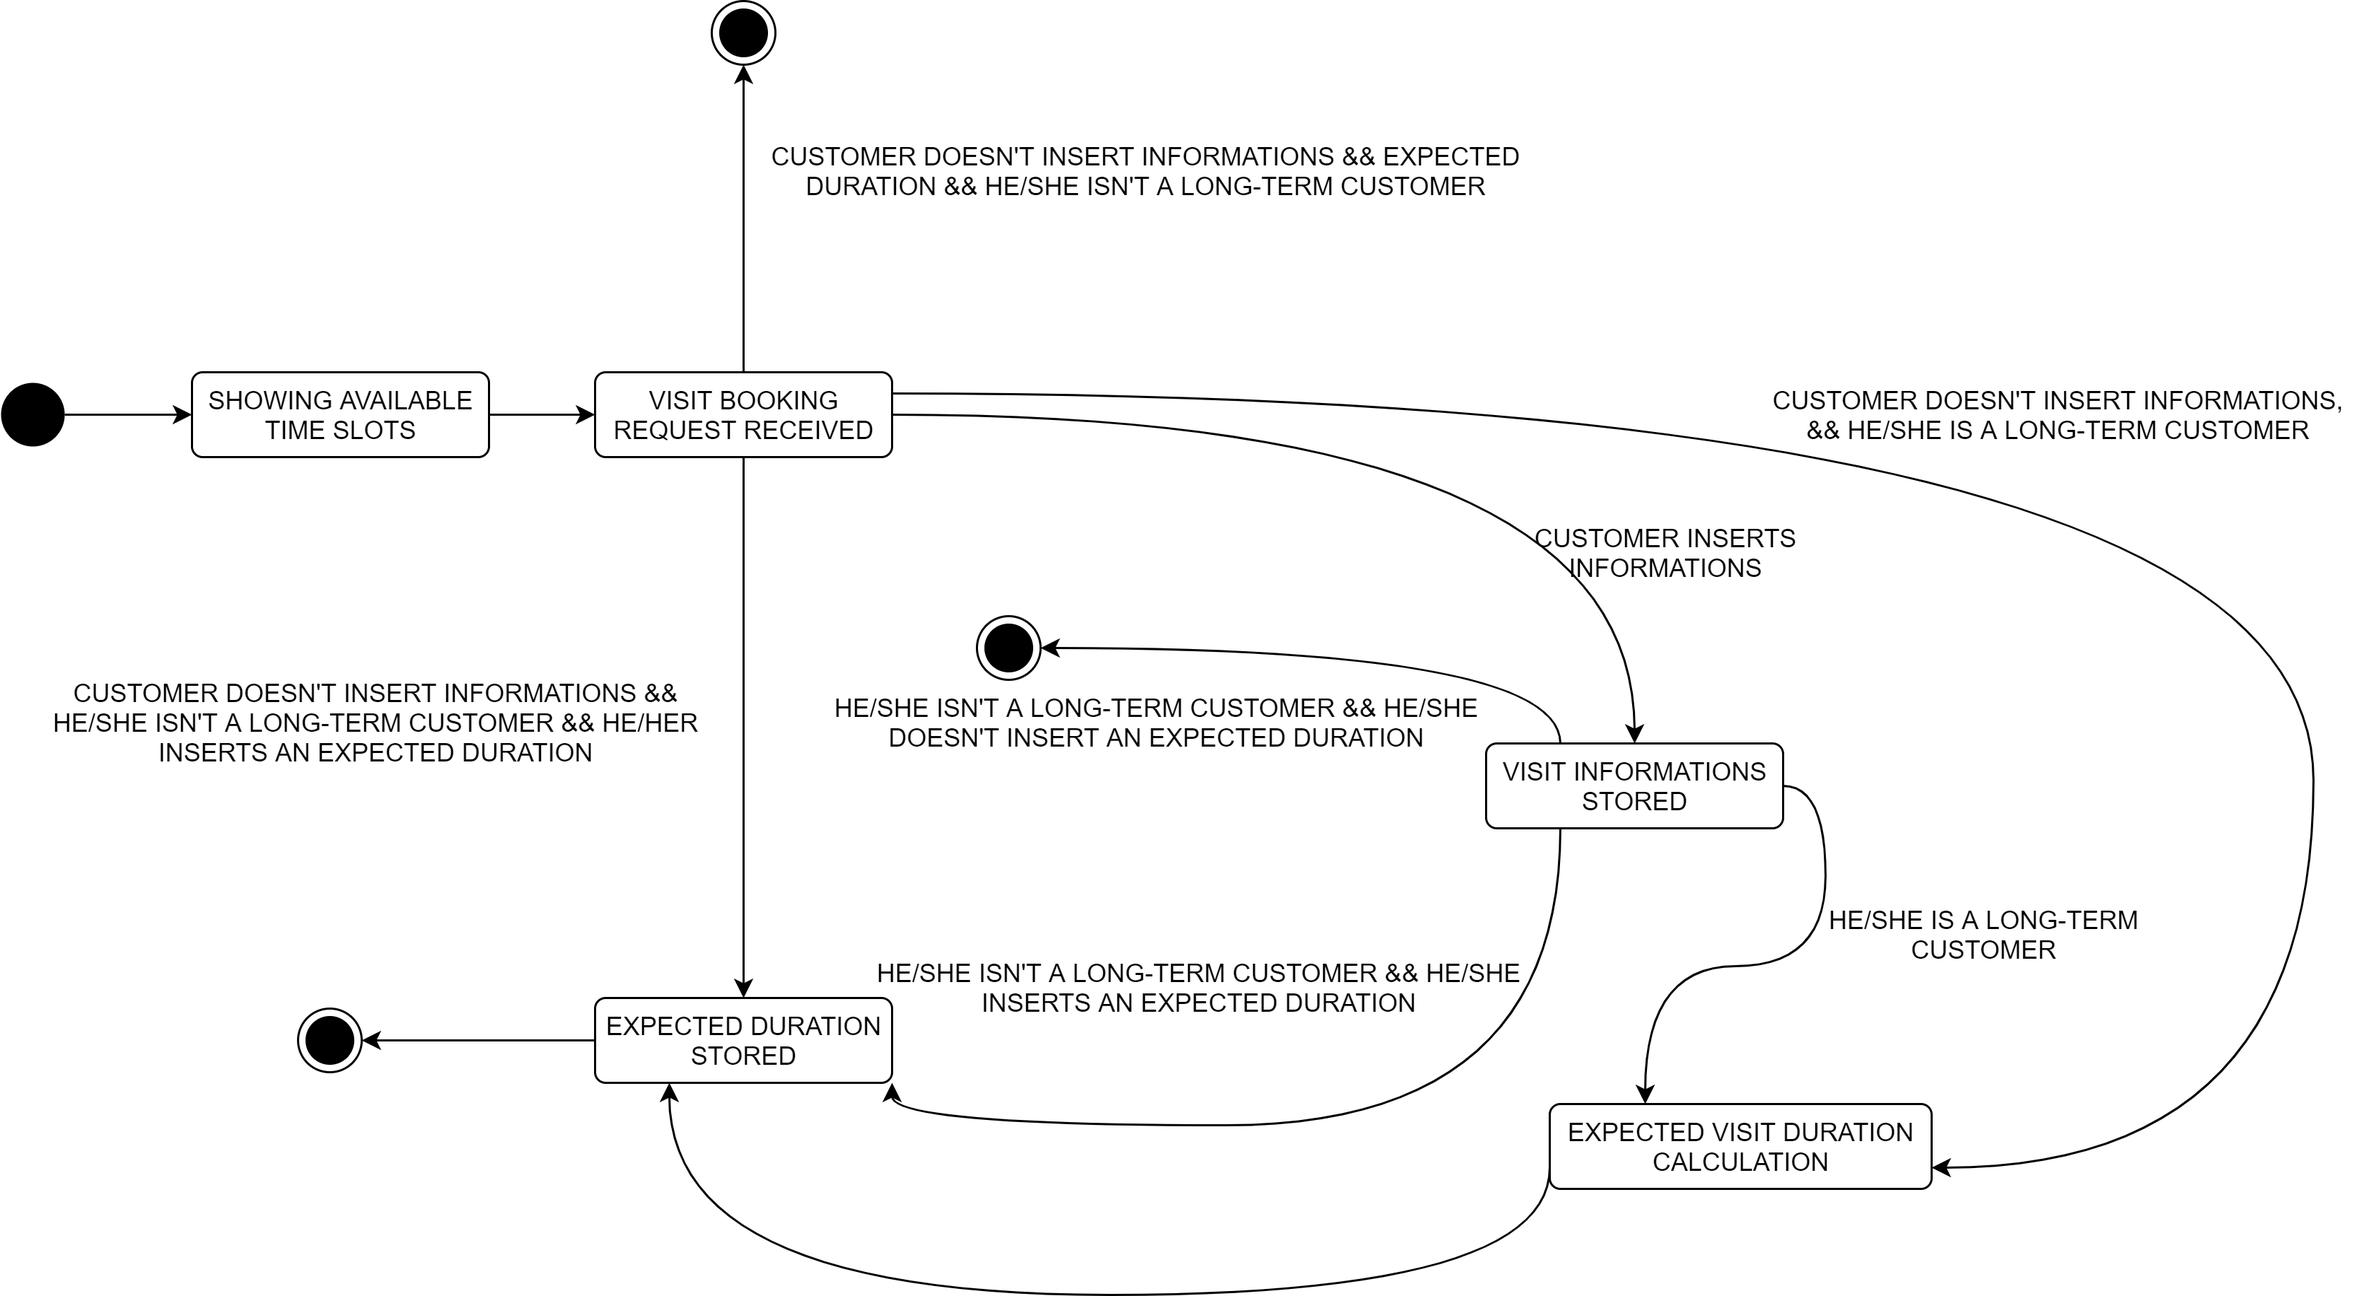
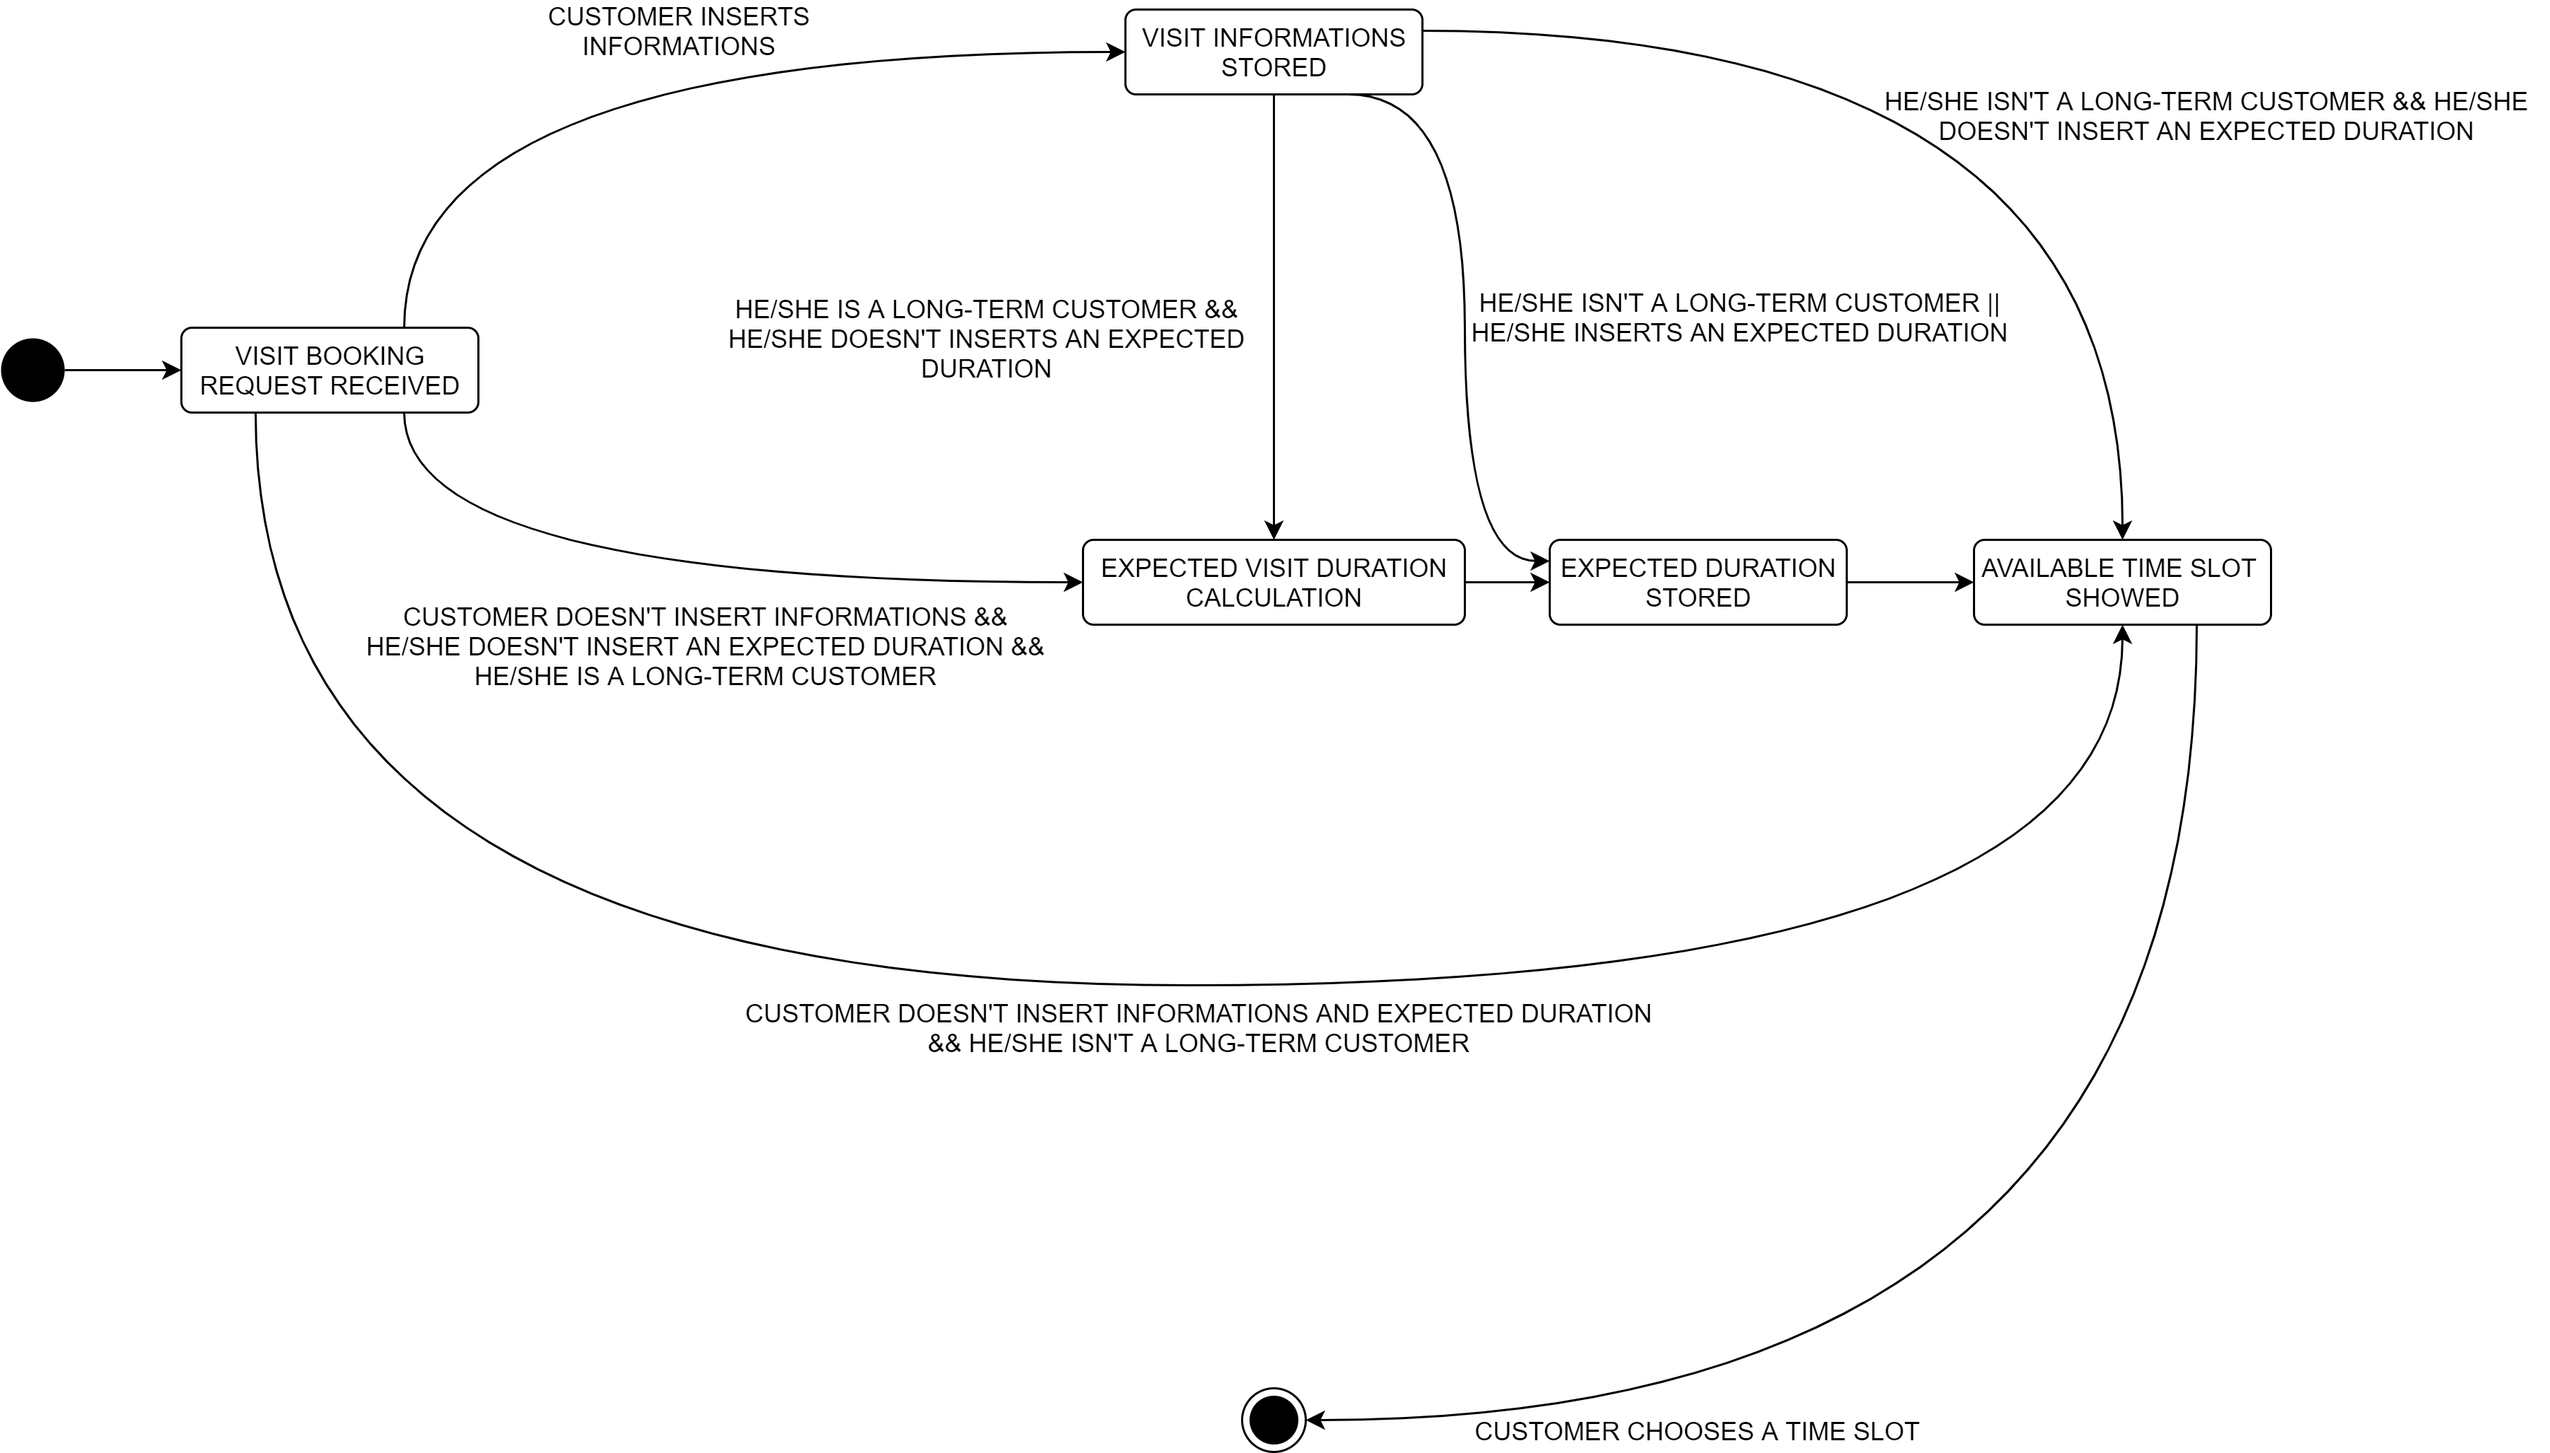
updates on chapter 2

diff --git a/RASDworkspace/LaTeXproject/sections/overall_description/prod_perspective.tex b/RASDworkspace/LaTeXproject/sections/overall_description/prod_perspective.tex
@@ -4,11 +4,11 @@ The below high-level diagram provides a static information model of the applicat
 
 The main aspects of Clup modelled in the below diagram are:
 \begin{itemize}
-    \item The application need to consider the presence of unregistered customers who arrive at the supermarket and require a place in the queue. For this reason, two types of customer (unregistered and registered) are distinguished in the diagram.
+    \item The application need to consider the presence of unregistered customers who arrive at the supermarket and require a place in the queue. For this reason, two types of customer (unregistered and registered) are distinguished in the diagram
     \item Given the need to allow the reservation of a seat in the queue to those who do not use the system directly, it is necessary to distinguish between 2 types of Lineup turn (physical and virtual).
-    \item A registered customer can book a Visit or a Lineup turn. To facilitate the reading of the diagram these two actions were generalized to an abstract class Reservation extended by Visit class and LineupTurn class.
-    \item An unregistered customer can book only a physical lineup turn. This reservation is handled by a Store employee who will act as a link between the system and the unregistered customer.
-    \item Each entrance could be monitored by the store manager.
+    \item A registered customer can book a Visit or a Lineup turn. To facilitate the reading of the diagram these two actions were generalized to an abstract class Reservation extended by Visit class and LineupTurn class. the possibility to generate a QR code associated to a reservation of a seat in queue is represented in the diagram by the optional attribute "qrCode" of the VirtualLineupTurn class
+    \item An unregistered customer can book only a physical lineup turn. This reservation is handled by a Store employee who will act as a link between the system and the unregistered customer
+    \item Each entrance could be monitored by the store manager
 \end{itemize}
 \includegraphics[width=\textwidth]{class_diagram.png}
 
@@ -28,6 +28,6 @@ In the second state diagram, we model the behavior our system has to have when a
 \includegraphics[width=\textwidth]{state_diagram2.png} \newline
 
 
-In the third and last diagram, we model the behavior our system has to have when there is a new request for booking a visit. Attention is paid to the possibility of following various paths to reach the end of the request. These numerous paths are due to the optional insertion of information related to the visit (department, products to buy, and estimated time). Also, for long-term customers, the estimated time is calculated by the system based on previous entries. \newline 
+In the third and last diagram, we model the behavior our system has to have when there is a new request for booking a visit. Attention is paid to the possibility of following various paths to reach the end of the request. These numerous paths are due to the optional insertion of information related to the visit (department, products to buy, and estimated time). Also, for long-term customers, the estimated time could be calculated by the system based on previous entries. \newline 
 
 \includegraphics[width=\textwidth]{state_diagram3.png} \newline

diff --git a/RASDworkspace/LaTeXproject/sections/introduction/doc_structure.tex b/RASDworkspace/LaTeXproject/sections/introduction/doc_structure.tex
@@ -3,19 +3,19 @@ This document is composed by six chapters :
     \item \textbf{Chapter 1: Introduction.} This chapter includes the goals of the project (\textit{Purpose}) 
     and an analysis of the world and of the shared phenomena (\textit{Scope}). It also includes a section where 
     there are all the descriptions, acronyms, and abbreviations in the document. Lastly, there 
-    is a revision history and a reference documents list.
+    is a revision history and a reference documents list
     \item \textbf{Chapter 2: Overall Description.} This chapter includes scenarios and further
     details on the shared phenomena and a domain model (class diagrams and statecharts) (\textit{Product perspective}). It also
     shows the most important requirements (\textit{Product functions}). It clarifies the user needs (\textit{User charateristics}), and lastly, it contains 
-    the domain assumptions (\textit{Assumptions, dependencies and constraints}).
+    the domain assumptions (\textit{Assumptions, dependencies and constraints})
     \item \textbf{Chapter 3: Specific Description.} This chapter is the body of the documents. It includes a section for 
     the User, Hardware, Software and Communication Interfaces (\textit{External Interface Requirements}). It also contains a definition
     of use case diagrams, use cases, and associated sequence/activity diagrams, and a map on requirements (\textit{Functional Requirements}).
-    Lastly, there are three sections dedicated to non-functional requirements (\textit{Performance Requirements}, \textit{Design Constraints} \textit{Software System Attributes}).
+    Lastly, there are three sections dedicated to non-functional requirements (\textit{Performance Requirements}, \textit{Design Constraints} \textit{Software System Attributes})
     \item \textbf{Chapter 4: Formal Analysis Using Alloy.} This chapter includes a brief presentation of the
-    main objectives driving the formal modeling activity, as well as a description of the model
+    main objectives driving the formal modeling activity, as well as a description of the model.
     itself, what can be proved with it, and why what is proved is important given the problem at hand. It also includes some worlds obtained by running the
-    formal model and the results of the checks performed on meaningful assertion.
-    \item \textbf{Chapter 5: Effort Spent.}  This chapter includes information about the number of hours each group member has worked for this document.    
+    formal model and the results of the checks performed on meaningful assertion
+    \item \textbf{Chapter 5: Effort Spent.}  This chapter includes information about the number of hours each group member has worked for this document
     \item \textbf{Chapter 6: References.}
 \end{itemize}

diff --git a/RASDworkspace/LaTeXproject/sections/overall_description/prod_funct.tex b/RASDworkspace/LaTeXproject/sections/overall_description/prod_funct.tex
@@ -2,5 +2,5 @@ Here is the description of the major functions that the CLup system has. In part
 \begin{itemize}
     \item \textbf{Line up:} This is the main function of the CLup system. The application works as a digital counterpart to the common situation where people who are in line for a service retrieve a number that gives their position in the queue. \newline To do that, the application allows customers to line up, retrieving a number, for a store that has joined to CLup and it provides to alert the customer when his turn is coming.
     \item \textbf{Book a visit:} Another mainly functionality the application has, is to book a visit. Similarly to booking a slot for visiting a museum, customers can choose a time slot in which to visit in the supermarket. The system is able to schedule customer visits correctly given that each visit will last differently from the others. CLup asks the customer details about his/her visit or it computes an estimated duration from previous visits of the same user
-    \item \textbf{Identification of customers at the store entrance:} The system allows customers to generate a QR code for their entrance into the supermarket, it is optional and customers are not obliged to do so. This QR code allows the store to identify the customer is entering the supermarket.
+    \item \textbf{Identification of customers at the store entrance:} The system allows customers to generate a QR code for their entrance into the supermarket, it is optional and customers are not obliged to do so. This QR code allows the store to identify the customer is entering the supermarket. For those who do not generate the QR code to enter after a queue, it will not be possible to identify them because their access will be exclusively through the generated number
 \end{itemize}

diff --git a/RASDworkspace/LaTeXproject/sections/overall_description/user_charact.tex b/RASDworkspace/LaTeXproject/sections/overall_description/user_charact.tex
@@ -2,6 +2,6 @@ The actors of the application are the following:
 \begin{itemize}
     \item \textbf{Visitor:} a person who can sign up to the CLup service. If the user doesn't have a compatible device to register to CLup he/she can go to the store and line up there.
     \item \textbf{Customer:} a person passed through the registration process. He/she is able to line up digitally or to book a visit right from the CLup application.
-    \item \textbf{Store employee:} a person who works at a grocery store and is registered to CLup as employee. He/she can line up customers who arrived at the store without lining up digitally. He/she will then call the customers when it's time to enter the supermarket.
-    \item \textbf{Store manager:} a person who works at a grocery store as the manager of that shop. He/she can manage the store informations on the CLup platform like the opening hours or the store capacity.
+    \item \textbf{Store employee:} a person who works at a grocery store and is registered to CLup as employee. He/she can line up customers who arrived at the store without lining up digitally. He/she will then call the customers when it's time to enter the supermarket. He is the one who will be in charge of checking the numbers of people entering after a queue and checking the booking information of the visiting people.
+    \item \textbf{Store manager:} a person who works at a grocery store as the manager of that shop. He/she can manage the store informations on the CLup platform like the opening hours or the store capacity. He can monitor customer information recorded by the system.
 \end{itemize}

diff --git a/RASDworkspace/LaTeXproject/sections/effort_spent/marco_effort.tex b/RASDworkspace/LaTeXproject/sections/effort_spent/marco_effort.tex
@@ -8,13 +8,14 @@
         \hline
         2h & Discussion on chapter 1 (Content definition) \\
         \hline
-        1h 30m& Write sections 1.3, 1.4, 1.5, and 1.6 \\
+        1h 30m& Writing of sections 1.3, 1.4, 1.5, and 1.6 \\
         \hline
         5h 30m & Discussion on chapter 2 (Content definition) \\
         \hline
-        6h & Write sections 2.1 and 2.2 \\
+        6h & Writing of sections 2.1 and 2.2 \\
         \hline
         7h & Discussion on chapter 3 (Content definition) \\
         \hline
+        45m & Updates on class-diagram and state-diagrams in chapter 2 \\
     \end{tabular}}
 \end{center}
